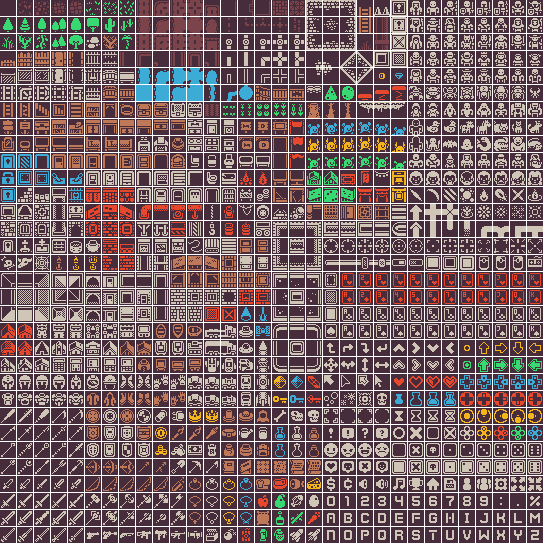
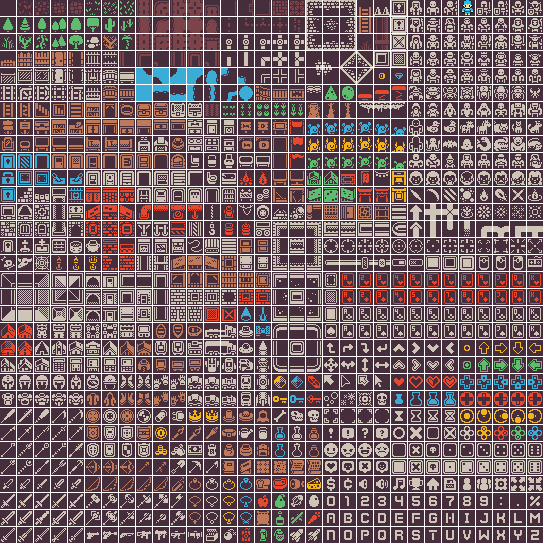
level1 added level checker added, player knows what level are

diff --git a/src/main/java/com/codecool/dungeoncrawl/Game.java b/src/main/java/com/codecool/dungeoncrawl/Game.java
@@ -1,11 +1,8 @@
 package com.codecool.dungeoncrawl;
 
 import com.codecool.dungeoncrawl.logic.*;
-import com.codecool.dungeoncrawl.logic.actors.Actor;
-import com.codecool.dungeoncrawl.logic.actors.Hunter;
 import com.codecool.dungeoncrawl.logic.items.Barehand;
 import com.codecool.dungeoncrawl.logic.items.ItemType;
-import com.codecool.dungeoncrawl.logic.items.WeaponType;
 import javafx.animation.FadeTransition;
 import javafx.geometry.Insets;
 import javafx.geometry.Pos;
@@ -21,11 +18,9 @@ import javafx.scene.text.Font;
 import javafx.stage.Stage;
 import javafx.util.Duration;
 
-import java.util.Random;
-
 public class Game {
-    Background TOOLBOX_FILL_COLOR = new Background(new BackgroundFill(Color.DIMGRAY, new CornerRadii(0), Insets.EMPTY));
-    Background BLACK_FILL_COLOR = new Background(new BackgroundFill(Color.BLACK, new CornerRadii(0), Insets.EMPTY));
+    Background TOOLBOX_FILL_COLOR = new Background(new BackgroundFill(Color.DIMGRAY, new CornerRadii(0), Insets.EMPTY));;
+    Background BLACK_FILL_COLOR = new Background(new BackgroundFill(Color.BLACK, new CornerRadii(0), Insets.EMPTY));;
 
     Font LOGO_FONT = new Font("Vehicle Breaks Down Regular", 180);
     Font SMALL_FONT = new Font("Pixeled Regular", 12);
@@ -33,7 +28,6 @@ public class Game {
     Font LARGE_FONT = new Font("Pixeled Regular", 25);
     Font EXTRA_LARGE_FONT = new Font("Pixeled Regular", 65);
 
-    Random random = new Random();
     private final Stage stage;
     private BorderPane borderPane;
     Battle battle;
@@ -55,24 +49,9 @@ public class Game {
     BorderPane weaponAvatar = new BorderPane();
     BorderPane enemyAvatar = new BorderPane();
 
-
-
     public Game(Stage stage, String name) {
         this.stage = stage;
         this.name.setText(name);
-    }
-
-    public void play() {
-        canvas = tutorial();
-        context = canvas.getGraphicsContext2D();
-
-        this.toolbar = setToolbar();
-        borderPane.setCenter(canvas);
-        borderPane.setTop(toolbar);
-        borderPane.setBottom(null);
-
-        scene.setOnKeyPressed(this::onKeyPressed);
-        refresh();
     }
 
     public void loader() {
@@ -123,10 +102,29 @@ public class Game {
     }
 
     private void playGame(KeyEvent keyEvent) {
-        this.play();
-
+        this.play(0);
     }
 
+    public void play(int level) {
+        switch (level) {
+            case 0:
+                canvas = tutorial();
+                context = canvas.getGraphicsContext2D();
+                break;
+            case 1:
+                canvas = level1();
+                context = canvas.getGraphicsContext2D();
+                break;
+        }
+
+        this.toolbar = setToolbar();
+        borderPane.setCenter(canvas);
+        borderPane.setTop(toolbar);
+        borderPane.setBottom(null);
+
+        scene.setOnKeyPressed(this::onKeyPressed);
+        refresh();
+    }
 
     private void onKeyPressed(KeyEvent keyEvent) {
         switch (keyEvent.getCode()) {
@@ -163,8 +161,6 @@ public class Game {
                 break;
         }
     }
-
-
 
     /**
      * checking if there is an item at the current position, if so then picking it up
@@ -248,6 +244,7 @@ public class Game {
             Label spellKey = new Label(" " + (i+1));
             spellKey.setFont(SMALL_FONT);
             BorderPane spell = new BorderPane();
+            spellKey.setTextFill(Color.WHITE);
             spell.setLeft(spellKey);
             spell.setRight(spellImage);
             characterInfo.add(spell, i+2, 2);
@@ -327,16 +324,18 @@ public class Game {
     }
 
     private Canvas tutorial() {
-        map = MapLoader.loadMap("tutorial");
+        map = MapLoader.loadMap(0, null);
         map.getPlayer().setWeapon(new Barehand(map.getPlayer().getCell(), ItemType.WEAPON, 0));
         map.getPlayer().getCell().setItem(null);
-//        map.getCell()
-        for(Actor enemy: map.getEnemyList()) {
-            if(enemy instanceof Hunter) {
-                ((Hunter) enemy).setMaxX(map.getWidth());
-                ((Hunter) enemy).setMaxY(map.getHeight());
-            }
-        }
+        canvas = new Canvas(
+                map.getWidth() * Tiles.TILE_WIDTH,
+                map.getHeight() * Tiles.TILE_WIDTH);
+
+        return canvas;
+    }
+
+    private Canvas level1() {
+        map = MapLoader.loadMap(1, map.getPlayer());
         canvas = new Canvas(
                 map.getWidth() * Tiles.TILE_WIDTH,
                 map.getHeight() * Tiles.TILE_WIDTH);
@@ -346,10 +345,10 @@ public class Game {
 
     private void checkForStairs() {
         if (map.getPlayer().getCell().getType().equals(CellType.STAIRS)) {
-            map = MapLoader.loadMap("level1.txt");
+            map.getPlayer().setMapLevel(map.getPlayer().getMapLevel() + 1);
+            play(map.getPlayer().getMapLevel());
         }
     }
-
 
     private void update() {
         checkForStairs();

diff --git a/src/main/java/com/codecool/dungeoncrawl/logic/MapLoader.java b/src/main/java/com/codecool/dungeoncrawl/logic/MapLoader.java
@@ -10,14 +10,14 @@ import java.io.InputStream;
 import java.util.Scanner;
 
 public class MapLoader {
-    public static GameMap loadMap(String level) {
+    public static GameMap loadMap(int level, Player player) {
         InputStream is = null;
         switch(level) {
-            case "tutorial":
+            case 0:
                 is = MapLoader.class.getResourceAsStream("/tutorial_map.txt");
                 break;
-            case "level1":
-                is = MapLoader.class.getResourceAsStream("level1.txt");
+            case 1:
+                is = MapLoader.class.getResourceAsStream("/level1.txt");
                 break;
         }
         Scanner scanner = new Scanner(is);
@@ -51,7 +51,12 @@ public class MapLoader {
                             break;
                         case '@':
                             cell.setType(CellType.FLOOR);
-                            map.setPlayer(new Player(cell, "Hero"));
+                            if (player == null) {
+                                map.setPlayer(new Player(cell, "Hero"));
+                                break;
+                            }
+                            player.setCell(cell);
+                            map.setPlayer(player);
                             break;
                         case 'k':
                             cell.setType(CellType.FLOOR);
@@ -80,8 +85,11 @@ public class MapLoader {
                         case 'c':
                             cell.setType(CellType.CLOSED_DOOR);
                             break;
+                        case 'z':
+                            cell.setType(CellType.BRIDGE);
+                            break;
                         case 'q':
-                            cell.setType(CellType.FLOOR.STAIRS);
+                            cell.setType(CellType.STAIRS);
                             break;
                         case 'w':
                             cell.setType(CellType.WATER);
@@ -110,8 +118,17 @@ public class MapLoader {
                         case '-':
                             cell.setType(CellType.BOTTOM_LAND);
                             break;
+                        case 'r':
+                            cell.setType(CellType.RIVER);
+                            break;
+                        case 'R':
+                            cell.setType(CellType.RIVER_END);
+                            break;
                         case '│':
                             cell.setType(CellType.RIGHT_LAND);
+                            break;
+                        case '╗':
+                            cell.setType(CellType.LEFT_CORNER_LAND);
                             break;
                         case '┘':
                             cell.setType(CellType.TOP_CORNER_INVERSE);

diff --git a/src/main/java/com/codecool/dungeoncrawl/Tiles.java b/src/main/java/com/codecool/dungeoncrawl/Tiles.java
@@ -29,6 +29,7 @@ public class Tiles {
         tileMap.put("character", new Tile(27, 0));
         tileMap.put("player", new Tile(27, 0));
         tileMap.put("skeleton", new Tile(29, 6));
+        tileMap.put("hunter", new Tile(24,0));
         // FLOORS
         tileMap.put("floor", new Tile(2, 0));
         tileMap.put("dirty_floor", new Tile(1, 0));
@@ -46,20 +47,24 @@ public class Tiles {
         tileMap.put("top_right_corner_land", new Tile(8, 4));
         tileMap.put("bottom_right_corner_land", new Tile(11, 4));
         tileMap.put("bottom_right_corner_inverse", new Tile(14, 4));
+        tileMap.put("left_corner_land", new Tile(9, 4));
         tileMap.put("top_right_corner_inverse", new Tile(13, 4));
-
-        tileMap.put("key", new Tile(0,1));
-
+        tileMap.put("river", new Tile(12,5));
+        tileMap.put("river_end", new Tile(14,5));
+        tileMap.put("bridge", new Tile(6,5));
+        //KEY
+        tileMap.put("key", new Tile(18,23));
+        //ITEMS
         tileMap.put("armour", new Tile(0,23));
         tileMap.put("potion", new Tile(17,25));
         tileMap.put("elixir", new Tile(16,25));
         tileMap.put("sword", new Tile(0,30));
         tileMap.put("bandit", new Tile(25,9));
-
+        //DOORS
         tileMap.put("open door", new Tile(0,3));
         tileMap.put("closed door", new Tile(1,3));
-        tileMap.put("stairs", new Tile(0,4));
-        tileMap.put("hunter", new Tile(24,0));
+        tileMap.put("stairs", new Tile(9,25));
+
     }
 
     public static void drawTile(GraphicsContext context, Drawable d, int x, int y) {

diff --git a/src/main/java/com/codecool/dungeoncrawl/logic/util/Direction.java b/src/main/java/com/codecool/dungeoncrawl/logic/util/Direction.java
@@ -5,8 +5,6 @@ import java.util.Random;
 public enum Direction {
     NORTH,SOUTH,WEST,EAST;
 
-
-
     public static int[] getRandomDirection () {
         Random random = new Random();
         int dx = 0;
@@ -14,20 +12,16 @@ public enum Direction {
         int randMove = random.nextInt(4);
         switch (randMove) {
             case 0:
-                dx = 0;
                 dy = -1;
                 break;
             case 1:
-                dx = 0;
                 dy = 1;
                 break;
             case 2:
                 dx = -1;
-                dy = 0;
                 break;
             case 3:
                 dx = 1;
-                dy = 0;
                 break;
             default:
                 throw new IllegalStateException("Unexpected value: " + randMove);
@@ -37,12 +31,8 @@ public enum Direction {
 
     public static boolean isMovingThisTurn() {
         Random random = new Random();
-        var alma = random.nextInt(11);
-        if(alma > 7) {
-            System.out.println(alma);
-            return true;
-        }
-        else return false;
+        int chanceToMove = random.nextInt(11);
+        return chanceToMove > 7;
     }
 }
 

diff --git a/src/main/java/com/codecool/dungeoncrawl/logic/CellType.java b/src/main/java/com/codecool/dungeoncrawl/logic/CellType.java
@@ -11,16 +11,20 @@ public enum CellType {
     TREE3("tree3", false),
     TREE4("tree4", false),
     WATER("water", false),
+    BRIDGE("bridge", true),
     BOTTOM_LAND("bottom_land", false),
     TOP_LAND("top_land", false),
     RIGHT_LAND("right_land", false),
+    LEFT_CORNER_LAND("left_corner_land", false),
     TOP_CORNER_LAND("top_right_corner_land", false),
     BOTTOM_CORNER_LAND("bottom_right_corner_land", false),
     BOTTOM_CORNER_INVERSE("bottom_right_corner_inverse", false),
     TOP_CORNER_INVERSE("top_right_corner_inverse", false),
     OPEN_DOOR("open door", true),
     CLOSED_DOOR("closed door", false),
-    STAIRS("stairs", true); // There is a square type "stairs down". Entering this square moves the player to a different map.
+    STAIRS("stairs", true),
+    RIVER("river", false),
+    RIVER_END("river_end", false);
 
     private final String tileName;
 

diff --git a/src/main/java/com/codecool/dungeoncrawl/logic/actors/Hunter.java b/src/main/java/com/codecool/dungeoncrawl/logic/actors/Hunter.java
@@ -12,7 +12,6 @@ public class Hunter extends Actor {
     private int maxX;
     private int maxY;
 
-
     public Hunter(Cell cell, String name) {
         super(cell, name);
         this.health = 375;
@@ -40,7 +39,6 @@ public class Hunter extends Actor {
             move(moves[0], moves[1]);
         }
         turnToTravel--;
-
     }
 
     private int[] getRandomPosition() {
@@ -49,13 +47,5 @@ public class Hunter extends Actor {
         int x = r.nextInt(11) - 5;
         int y = r.nextInt(11) - 5;
         return new int[] {x,y};
-    }
-
-    public void setMaxX(int maxX) {
-        this.maxX = maxX;
-    }
-
-    public void setMaxY(int maxY) {
-        this.maxY = maxY;
     }
 }

diff --git a/src/main/java/com/codecool/dungeoncrawl/logic/actors/Player.java b/src/main/java/com/codecool/dungeoncrawl/logic/actors/Player.java
@@ -14,7 +14,6 @@ public class Player extends Actor {
     private final ArrayList<Item> inventory = new ArrayList<>();
     int mapLevel = 0;
 
-
     public Player(Cell cell, String name) {
         super(cell, name);
         this.health = 500;
@@ -30,6 +29,14 @@ public class Player extends Actor {
         this.spellList.add(Spell.THUNDER);
         this.spellList.add(Spell.SMALL_HEAL);
         this.avatar = PlayerAvatar.BLUE_BOY.getPlayerAvatar();
+    }
+
+    public void setCell(Cell cell) {
+        this.cell = cell;
+    }
+
+    public void setMapLevel(int mapLevel) {
+        this.mapLevel = mapLevel;
     }
 
     public String getTileName() {

diff --git a/src/main/java/com/codecool/dungeoncrawl/Main.java b/src/main/java/com/codecool/dungeoncrawl/Main.java
@@ -70,6 +70,7 @@ public class Main extends Application {
         newGame.setOnMouseClicked(this::newGame);
         loadGame.setOnMouseClicked(this::loadGame);
         loadGame.setDisable(true);
+
         stage.show();
         stage.setScene(scene);
     }
